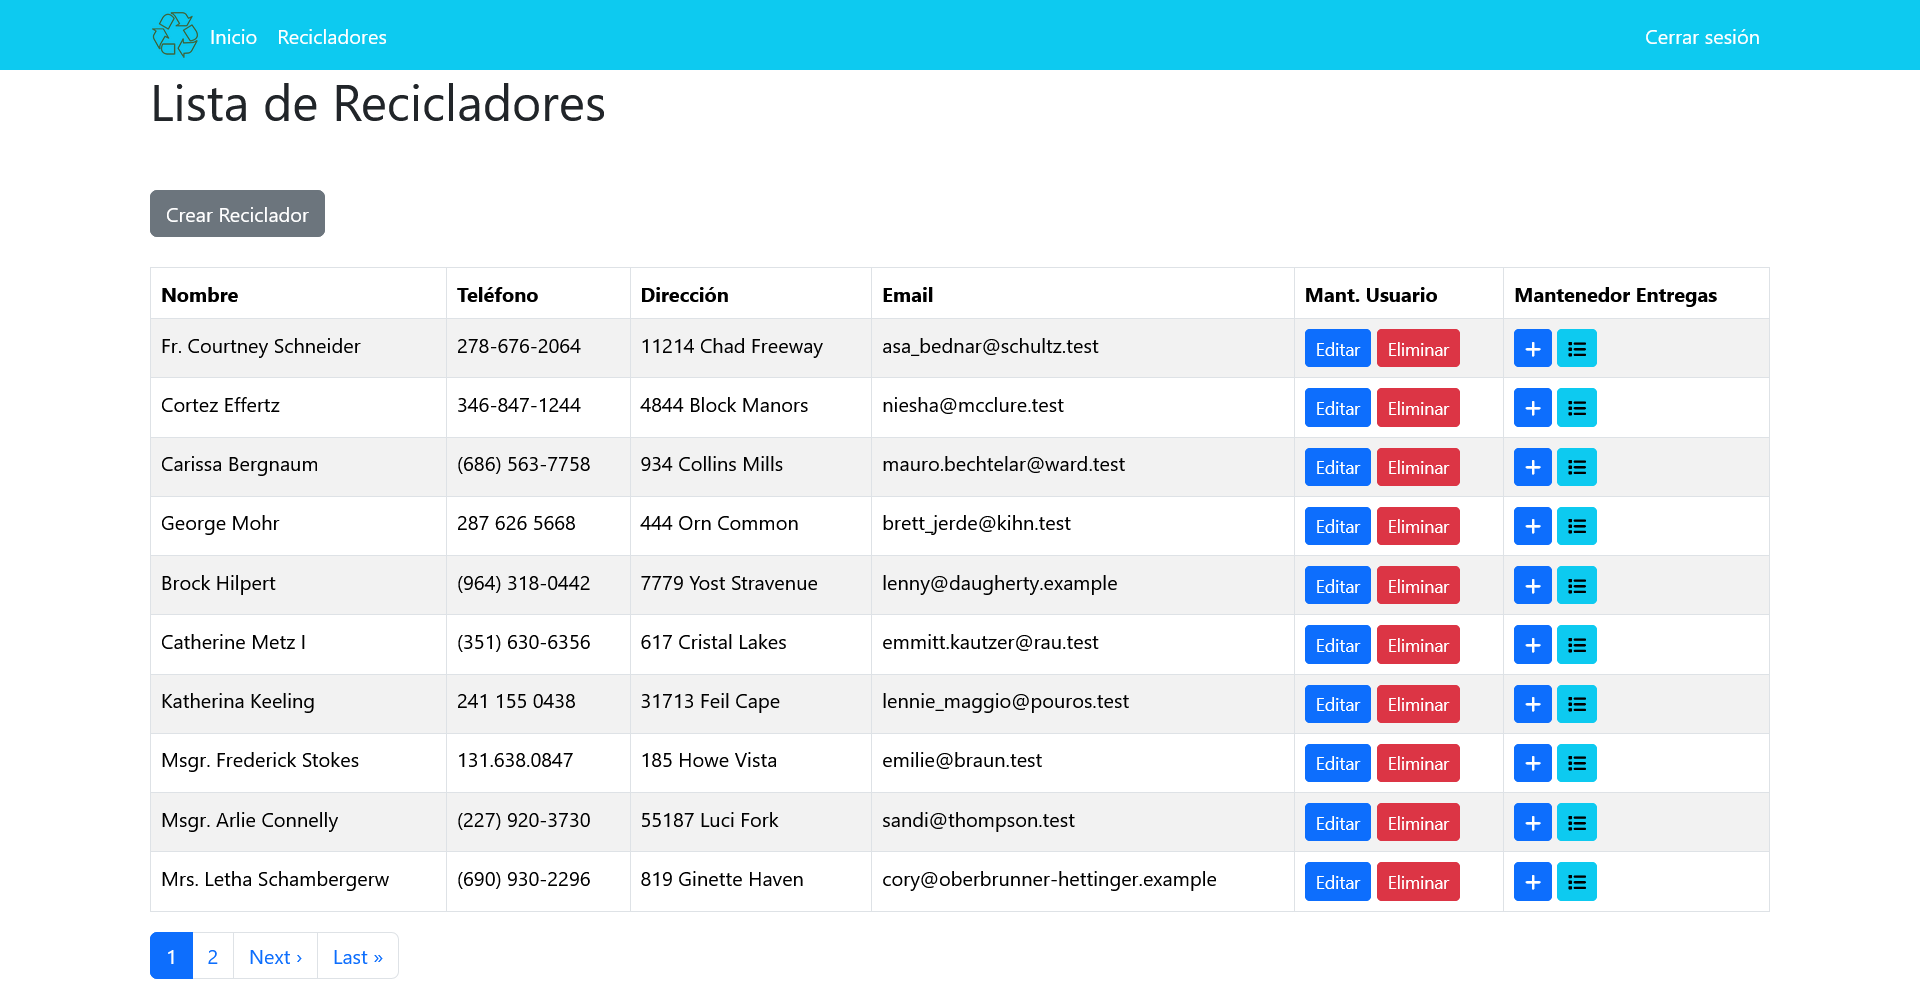
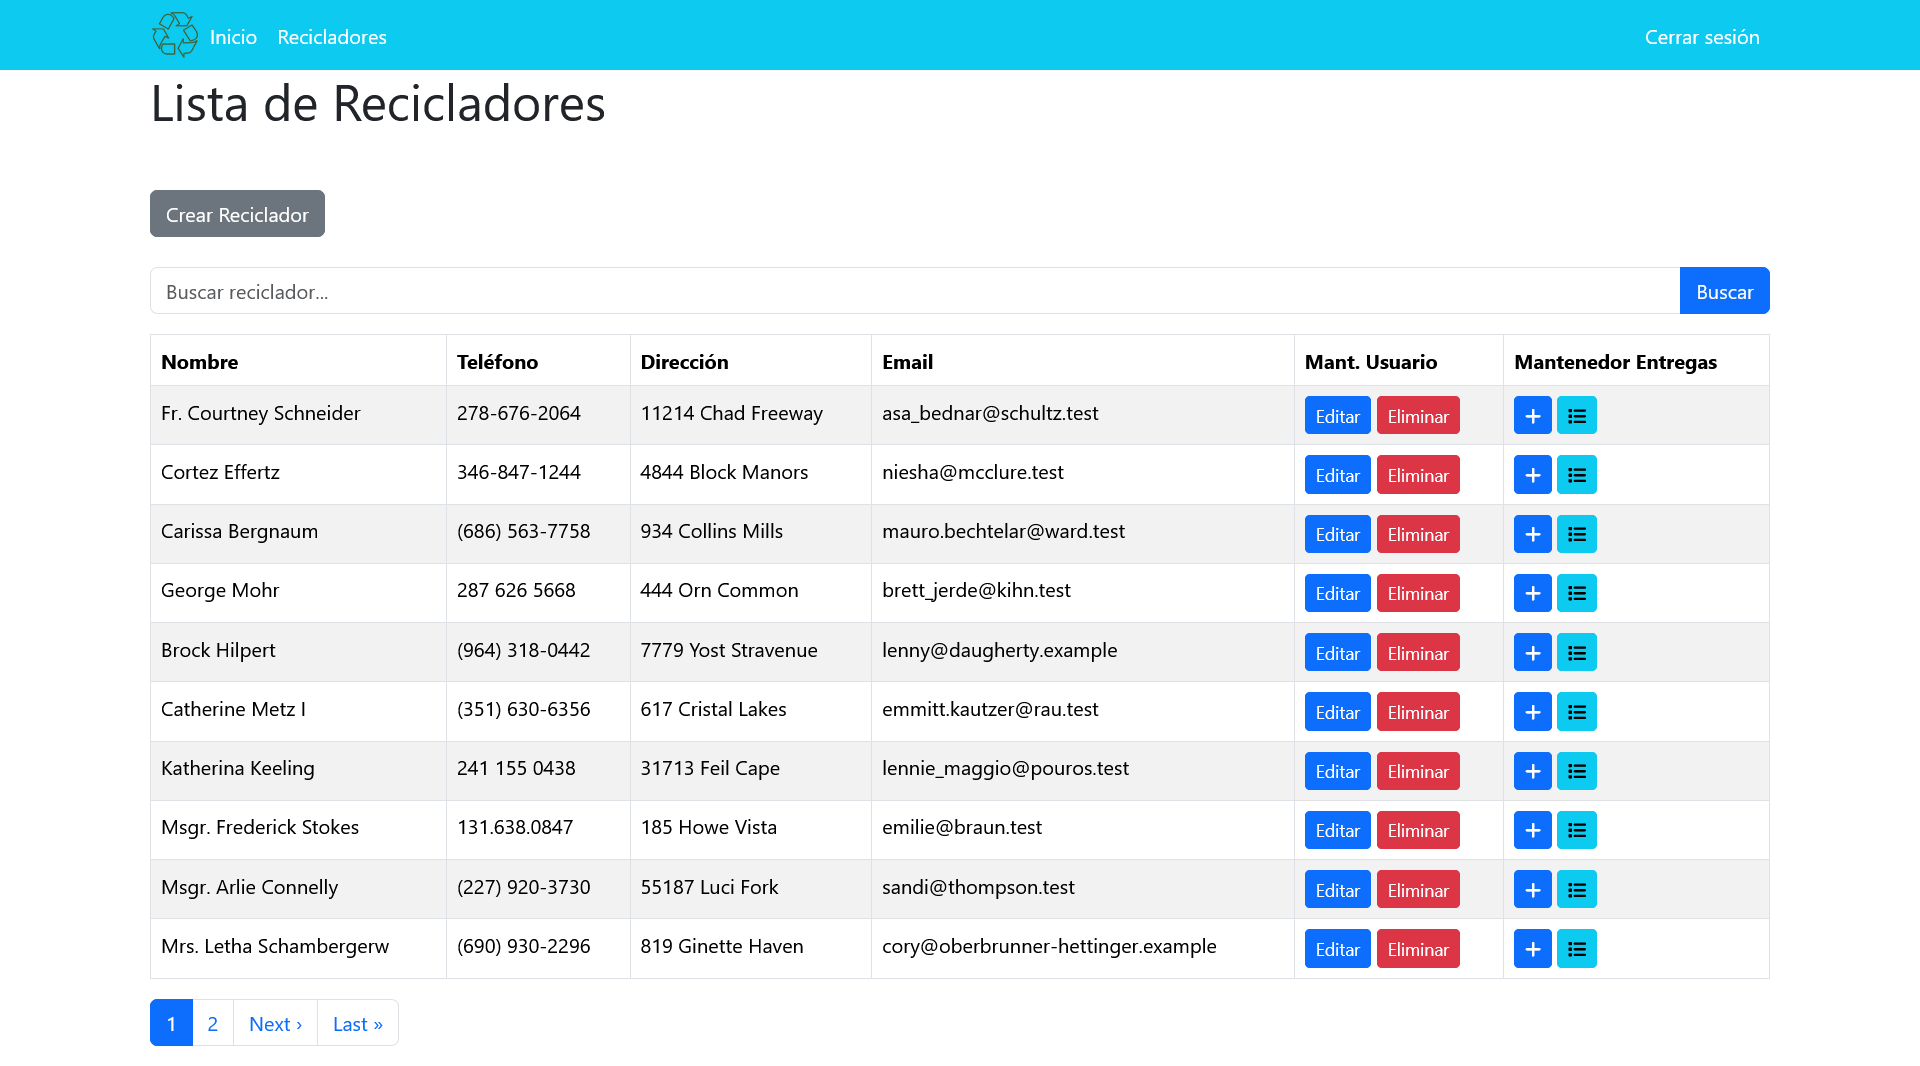
Agregando Botón de búsqueda

diff --git a/app/controllers/recyclers_controller.rb b/app/controllers/recyclers_controller.rb
@@ -3,7 +3,11 @@ class RecyclersController < ApplicationController
     before_action :authorize_operador_or_admin!
     before_action :set_recycler, only: [ :edit, :update, :destroy]
     def index
+      if params[:search].present?
+        @recyclers = Recycler.where('name ILIKE ? OR phone ILIKE ? OR email ILIKE ?', "%#{params[:search]}%", "%#{params[:search]}%", "%#{params[:search]}%").page(params[:page]).per(10)
+      else
         @recyclers = Recycler.page(params[:page]).per(10) # Paginación de 10 elementos por página
+      end
     end
   
     def new

diff --git a/README.md b/README.md
@@ -69,6 +69,7 @@ end
 * subir el repositorio a git con la aplicación y sus funcionalidades operativas
 * Ingresar al render y configurar el panel de control
 * desplegar
+* Agregando buscador vista recicladores
 
 
 <image src="/imagenes/1.png" alt="Descripción de la imagen">
